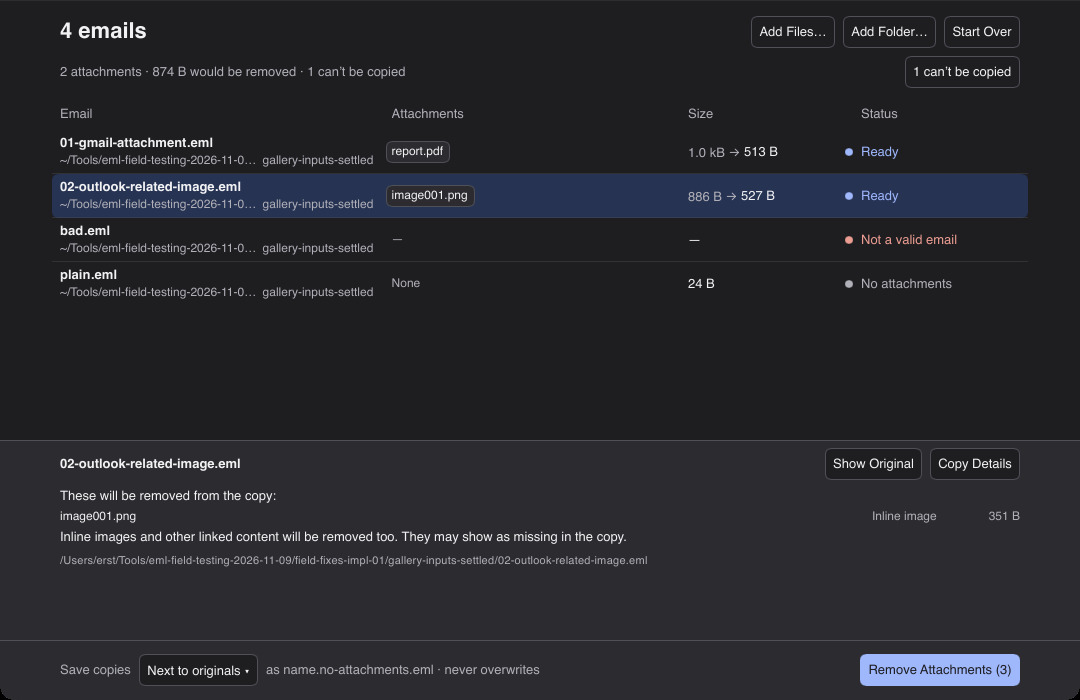
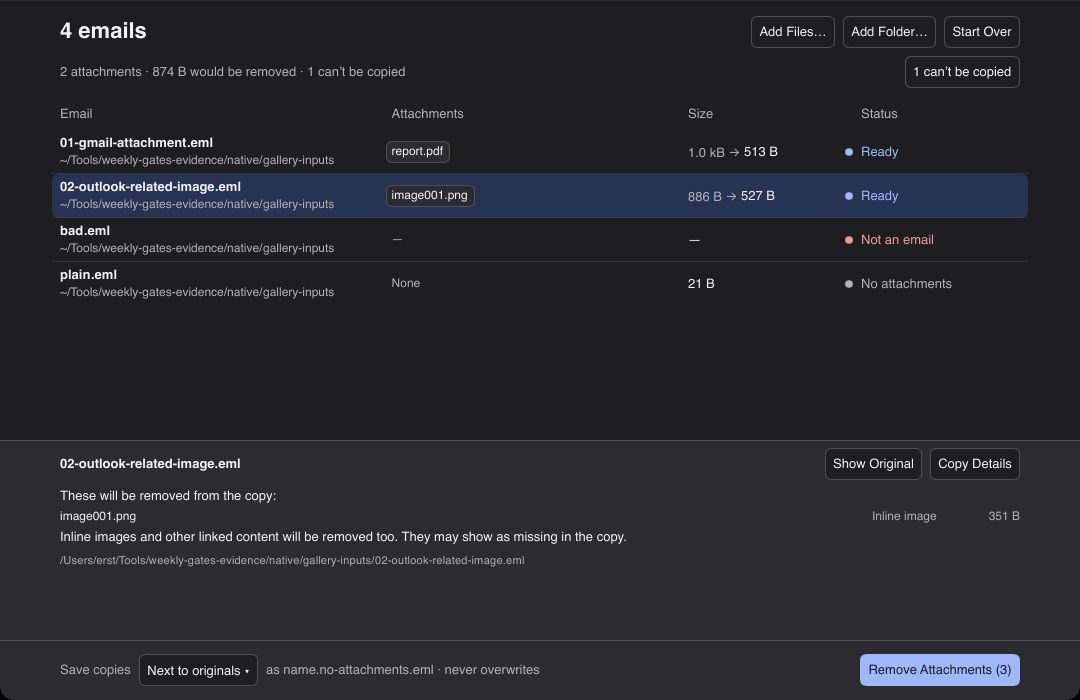
fix: preserve nested epilogue framing and contextual labels
WP1: omit the non-empty nested optional CRLF epilogue as a unit; retain empty/root spans and transport padding. Share typed failure labels and not-a-directory guidance without changing wire codes. Existing 32 corpus files retain exact copy bytes and check/rerun JSON; explicit negative controls reject the old span and empty-epilogue widening. Refresh affected toolkit and native captures.

diff --git a/crates/eml-message/tests/model.rs b/crates/eml-message/tests/model.rs
@@ -308,7 +308,7 @@ fn removal(node: &Rendered, reason: RemovalReason) -> Expected {
         stripped: BTreeSet::new(),
     }
 }
-fn expected(node: &Rendered) -> Result<Expected, Refusal> {
+fn expected(node: &Rendered, enclosed: bool) -> Result<Expected, Refusal> {
     if node.disposition.is_attachment() && !node.root {
         return Ok(removal(node, RemovalReason::Attachment));
     }
@@ -339,7 +339,7 @@ fn expected(node: &Rendered) -> Result<Expected, Refusal> {
             identity: true,
             child,
         } => {
-            let result = expected(child)?;
+            let result = expected(child, enclosed)?;
             removals = result.removals;
             stripped = result.stripped;
             if let Some(copy) = result.copy {
@@ -359,7 +359,7 @@ fn expected(node: &Rendered) -> Result<Expected, Refusal> {
                 let result = if selected.is_some_and(|selected| selected != index) {
                     removal(child, RemovalReason::RelatedResource)
                 } else {
-                    expected(child)?
+                    expected(child, true)?
                 };
                 removals.extend(result.removals);
                 stripped.extend(result.stripped);
@@ -372,12 +372,21 @@ fn expected(node: &Rendered) -> Result<Expected, Refusal> {
             }
             // Every generated multipart has an epilogue, so its copy always changes.
             let ending = suffix.len() - b"model epilogue".len();
-            body.extend(&suffix[..ending]);
+            let close_end = if enclosed {
+                suffix[..ending]
+                    .iter()
+                    .rposition(|b| !matches!(b, b'\r' | b'\n'))
+                    .unwrap()
+                    + 1
+            } else {
+                ending
+            };
+            body.extend(&suffix[..close_end]);
             removals.push(RemovedPart {
                 section: node.section.clone(),
                 content_type: "application/octet-stream".into(),
                 filename: None,
-                bytes: 14,
+                bytes: (suffix.len() - close_end) as u64,
                 reason: RemovalReason::AfterMessageEnd,
             });
             changed = true;
@@ -427,7 +436,7 @@ proptest! {
     #![proptest_config(model_config())]
     #[test] fn semantic_model_preserves_all_authorized_bytes(model in models()) {
         let rendered=render(&model,true,String::new(),None,false,&mut 0);
-        let oracle=expected(&rendered);let actual=prepare_message(&rendered.wire,&RunControl::default());
+        let oracle=expected(&rendered, false);let actual=prepare_message(&rendered.wire,&RunControl::default());
         match oracle {
             Err(kind)=>prop_assert!(matches!(actual,Err(PreparationError::Refused{kind:actual,..}) if actual==kind), "Expected the model refusal"),
             Ok(Expected{copy:None,..})=>prop_assert!(matches!(actual,Err(PreparationError::Refused{kind:Refusal::NoBody,..})), "Expected no supported body"),

diff --git a/crates/eml-message/src/message/parse.rs b/crates/eml-message/src/message/parse.rs
@@ -15,6 +15,7 @@ struct Multipart {
     first: Option<usize>,
     close: usize,
     closing_end: usize,
+    closing_content_end: usize,
     children: Vec<Child>,
     pending: Option<(usize, Span)>,
     related: Option<Related>,
@@ -286,6 +287,7 @@ impl Parser<'_, '_> {
                 first: None,
                 close: 0,
                 closing_end: 0,
+                closing_content_end: 0,
                 children: Vec::new(),
                 pending: None,
                 related,
@@ -298,7 +300,7 @@ impl Parser<'_, '_> {
             Ok(Body::Leaf)
         }
     }
-    fn finish(&mut self, end: usize) -> Result<(), PreparationError> {
+    fn finish(&mut self, end: usize, enclosed: bool) -> Result<(), PreparationError> {
         let frame = self
             .frames
             .pop()
@@ -323,11 +325,18 @@ impl Parser<'_, '_> {
             if let Some(registration) = multi.registration.take() {
                 self.active.unregister(registration);
             }
+            // Remove optional CRLF + epilogue as one unit only when content
+            // exists before enclosing framing. Empty epilogues keep exact bytes.
+            let epilogue_start = if enclosed && multi.closing_end < end {
+                multi.closing_content_end
+            } else {
+                multi.closing_end.min(end)
+            };
             node.kind = Kind::Multipart {
                 prefix: node.body.start..multi.first.expect("closed multipart has an opening"),
                 children: multi.children,
-                suffix: multi.close..multi.closing_end.min(end),
-                epilogue: multi.closing_end.min(end)..end,
+                suffix: multi.close..epilogue_start,
+                epilogue: epilogue_start..end,
             };
         }
         node.span.end = end;
@@ -351,11 +360,10 @@ impl Parser<'_, '_> {
             let start = self.message.nodes[self.frames.last().expect("frame").id]
                 .span
                 .start;
-            self.finish(previous_terminator(
-                self.message.input,
-                line.content.start,
-                start,
-            ))?;
+            self.finish(
+                previous_terminator(self.message.input, line.content.start, start),
+                true,
+            )?;
         }
         let frame = self
             .frames
@@ -386,6 +394,7 @@ impl Parser<'_, '_> {
             multi.closed = true;
             multi.close = line.content.start;
             multi.closing_end = line.end;
+            multi.closing_content_end = line.content.end;
             self.active
                 .unregister(multi.registration.take().expect("registered multipart"));
             return Ok(());
@@ -487,7 +496,7 @@ pub(crate) fn parse<'a>(
         }
     }
     while !parser.frames.is_empty() {
-        parser.finish(input.len())?;
+        parser.finish(input.len(), false)?;
     }
     Ok(parser.message)
 }

diff --git a/crates/eml-gui/tests/desktop/acceptance.rs b/crates/eml-gui/tests/desktop/acceptance.rs
@@ -577,7 +577,7 @@ fn w3_real_core_rows_and_headlines_for_check_done_and_rerun() {
                     .iter()
                     .find(|r| r.name == name)
                     .unwrap();
-                assert_eq!(row.status, item.outcome().label());
+                assert_eq!(row.status, item.outcome().label_for(item.failure.as_ref()));
             }
         }
     }
@@ -1555,7 +1555,7 @@ fn u10_check_failures_persist_while_create_is_held() {
         .iter()
         .find(|r| r.name == "three.eml")
         .unwrap();
-    assert_eq!(bad.status, "Not a valid email");
+    assert_eq!(bad.status, "Not an email");
     assert_eq!(c.window().get_view().problems, "1 can’t be copied");
     let good = c
         .window()
@@ -1573,7 +1573,7 @@ fn u10_check_failures_persist_while_create_is_held() {
             .find(|r| r.name == "three.eml")
             .unwrap()
             .status,
-        "Not a valid email"
+        "Not an email"
     );
 }
 #[test]
@@ -1728,14 +1728,7 @@ fn u6_t8_headers_and_first_row_stay_fixed_across_run_and_filter_states() {
     let row_y = label(&ui, "one.eml, Waiting").absolute_position().y;
     ui.invoke_toggle_problems();
     assert!((label(&ui, "Email").absolute_position().y - y).abs() <= 1.);
-    assert!(
-        (label(&ui, "three.eml, Not a valid email")
-            .absolute_position()
-            .y
-            - row_y)
-            .abs()
-            <= 1.
-    );
+    assert!((label(&ui, "three.eml, Not an email").absolute_position().y - row_y).abs() <= 1.);
     ui.invoke_toggle_problems();
     release.release();
     pump(&c, || !c.is_busy());

diff --git a/crates/eml-core/src/failure.rs b/crates/eml-core/src/failure.rs
@@ -68,6 +68,16 @@ impl OperationFailure {
                 "The save folder is inside a folder you added: {}. Choose a different save folder.",
                 crate::display::DisplayPath::new(path)
             ),
+            FailureContext::SaveFolder(path)
+                if self
+                    .native_error()
+                    .is_some_and(|e| e.kind() == io::ErrorKind::NotADirectory) =>
+            {
+                format!(
+                    "The save folder is a file, not a folder: {}. Choose a folder.",
+                    crate::display::DisplayPath::new(path)
+                )
+            }
             FailureContext::SaveFolder(path) => output_folder_unavailable(path),
             FailureContext::WorkingFolder(path) => format!(
                 "The working folder isn't available: {}. Choose an existing folder and try again.",
@@ -106,6 +116,14 @@ impl OperationFailure {
                 }
                 RunFailure(self.code).explanation().into()
             }
+        }
+    }
+    /// Short human label selected from the same typed context as the explanation.
+    pub fn label(&self) -> &'static str {
+        match self.context {
+            FailureContext::Message(Refusal::NotEmail) => "Not an email",
+            FailureContext::Message(Refusal::Malformed) => "Damaged email",
+            _ => crate::vocabulary::Outcome::Failed(self.code).label(),
         }
     }
     /// Whether an explicit work-item count (rather than a path/depth bound) was exceeded.

diff --git a/crates/eml-core/src/vocabulary.rs b/crates/eml-core/src/vocabulary.rs
@@ -680,6 +680,13 @@ impl Outcome {
             Self::Failed(code) => failure(code).0,
         }
     }
+    /// Contextual failure label, preserving stronger independent outcome facts.
+    pub fn label_for(self, failure: Option<&crate::OperationFailure>) -> &'static str {
+        match (self, failure) {
+            (Self::Failed(code), Some(failure)) if code == failure.code() => failure.label(),
+            _ => self.label(),
+        }
+    }
     /// Count wording shared by summaries and the desktop header.
     pub fn count_label(self, n: usize) -> String {
         let phrase = match self {
@@ -737,11 +744,11 @@ fn failure(code: crate::ErrorCode) -> (&'static str, &'static str) {
     use crate::ErrorCode::*;
     match code {
         MailboxFile => (
-            "Several emails in one file",
+            "Several emails in a file",
             "This file holds several emails (a mailbox export). Export the emails one at a time, then add them.",
         ),
         Malformed => (
-            "Not a valid email",
+            "Damaged email",
             "This file isn't a valid email. It may be empty or not an email at all; if it came from your mail app, export it again.",
         ),
         NoBody => (

diff --git a/crates/eml-message/tests/field_fixes.rs b/crates/eml-message/tests/field_fixes.rs
@@ -3,7 +3,7 @@ use eml_message::{RemovalReason, RunControl, prepare_message};
 #[test]
 fn y2_root_and_nested_epilogues_leave_only_message_parts() {
     let source = b"Content-Type: multipart/mixed; boundary=O\r\n\r\npreamble\r\n--O\r\nContent-Type: multipart/mixed; boundary=I\r\n\r\n--I\r\n\r\nbody\r\n--I--\r\nhidden-inner\r\n--O--\r\nhidden-outer";
-    let expected = b"Content-Type: multipart/mixed; boundary=O\r\n\r\npreamble\r\n--O\r\nContent-Type: multipart/mixed; boundary=I\r\n\r\n--I\r\n\r\nbody\r\n--I--\r\n\r\n--O--\r\n";
+    let expected = b"Content-Type: multipart/mixed; boundary=O\r\n\r\npreamble\r\n--O\r\nContent-Type: multipart/mixed; boundary=I\r\n\r\n--I\r\n\r\nbody\r\n--I--\r\n--O--\r\n";
     let message = prepare_message(source, &RunControl::default()).unwrap();
     assert_eq!(message.as_bytes(), expected);
     assert_eq!(
@@ -13,7 +13,7 @@ fn y2_root_and_nested_epilogues_leave_only_message_parts() {
             .map(|r| (r.section.as_str(), r.bytes, r.reason))
             .collect::<Vec<_>>(),
         [
-            ("1", 12, RemovalReason::AfterMessageEnd),
+            ("1", 14, RemovalReason::AfterMessageEnd),
             ("", 12, RemovalReason::AfterMessageEnd)
         ]
     );

diff --git a/crates/eml-cli/src/human.rs b/crates/eml-cli/src/human.rs
@@ -207,7 +207,11 @@ fn write_item(writer: &mut impl Write, value: &eml_core::ItemEvent<'_>) -> io::R
     let facts = OutcomeFacts::from(&value.result);
     let data = value.result.metadata();
     let outcome = Outcome::from(&facts, data.map_or(0, |d| d.removed.len()));
-    write_label(writer, outcome, value.source.display)?;
+    let failure = match &value.result {
+        eml_core::ItemResult::Failed(f) => Some(f.error()),
+        _ => None,
+    };
+    write_label(writer, outcome.label_for(failure), value.source.display)?;
     if outcome.severity() != Severity::Failure
         && data.is_some_and(|d| !d.removed.is_empty())
         && let Some(path) = value.destination
@@ -486,15 +490,11 @@ mod tests {
     }
 }
 
-fn write_label(
-    writer: &mut impl Write,
-    outcome: Outcome,
-    source: &std::path::Path,
-) -> io::Result<()> {
+fn write_label(writer: &mut impl Write, label: &str, source: &std::path::Path) -> io::Result<()> {
     write!(
         writer,
         "{:<LABEL_WIDTH$} {}",
-        outcome.label(),
+        label,
         eml_core::display::DisplayPath::new(source)
     )
 }

diff --git a/crates/eml-cli/tests/cli_process.rs b/crates/eml-cli/tests/cli_process.rs
@@ -722,7 +722,7 @@ fn u3_plain_outcomes_and_diagnostics_preserve_process_exit_contract() {
         (
             vec!["--dry-run", "--", "empty.eml", "garbage.eml", "notes.txt"],
             1,
-            vec!["Not a valid email"],
+            vec!["Not an email"],
         ),
         (vec!["--", "missing.eml"], 1, vec!["Can’t be read"]),
     ] {
@@ -873,7 +873,7 @@ fn v9_cli_item_layout() {
     );
     let text = String::from_utf8(output.stdout).unwrap();
     for line in text.lines() {
-        if line.starts_with("Not a valid email") || line.starts_with("No attachments") {
+        if line.starts_with("Not an email") || line.starts_with("No attachments") {
             assert!(
                 !line.contains("→") && !line.contains("0 attachments"),
                 "{line}"

diff --git a/crates/eml-core/src/fs/windows.rs b/crates/eml-core/src/fs/windows.rs
@@ -109,9 +109,13 @@ pub(super) fn open_directory(
     let path = path::absolute(&path)?;
     let file = open(&path, FILE_READ_ATTRIBUTES, OPEN_EXISTING, follow)?;
     let attributes = basic(&file)?.FileAttributes;
-    if attributes & FILE_ATTRIBUTE_DIRECTORY == 0
-        || (!follow && attributes & FILE_ATTRIBUTE_REPARSE_POINT != 0)
-    {
+    if attributes & FILE_ATTRIBUTE_DIRECTORY == 0 {
+        return Err(io::Error::new(
+            io::ErrorKind::NotADirectory,
+            "Object is not a directory",
+        ));
+    }
+    if !follow && attributes & FILE_ATTRIBUTE_REPARSE_POINT != 0 {
         return Err(io::Error::new(
             io::ErrorKind::InvalidInput,
             "Destination edge is not an ordinary directory",

diff --git a/crates/eml-cli/tests/support/human_labels.rs b/crates/eml-cli/tests/support/human_labels.rs
@@ -26,7 +26,12 @@ fn u1_cli_renders_every_core_outcome_label() {
             outcome.label()
         );
         let mut line = Vec::new();
-        write_label(&mut line, outcome, std::path::Path::new("message.eml")).unwrap();
+        write_label(
+            &mut line,
+            outcome.label(),
+            std::path::Path::new("message.eml"),
+        )
+        .unwrap();
         assert!(
             String::from_utf8(line)
                 .unwrap()

diff --git a/crates/eml-gui/src/present.rs b/crates/eml-gui/src/present.rs
@@ -59,7 +59,10 @@ pub(super) struct Row {
 }
 impl Row {
     pub(super) fn label(&self) -> &'static str {
-        self.status.label()
+        match self.status {
+            RowStatus::Settled(outcome) => outcome.label_for(self.item.failure.as_ref()),
+            _ => self.status.label(),
+        }
     }
     pub(super) fn problem(&self) -> bool {
         self.status.severity().is_problem()

diff --git a/crates/eml-message/src/verify.rs b/crates/eml-message/src/verify.rs
@@ -325,7 +325,7 @@ impl Iterator for RetainedSpans<'_, '_> {
         }
     }
 }
-/// Actual authorization guard, targeted by the bounded mutation selection.
+/// Independently authorize the exact source-bound deletion claim sequence.
 pub(crate) fn authorize_deletions(
     message: &Message<'_>,
     claims: &[Claim],
